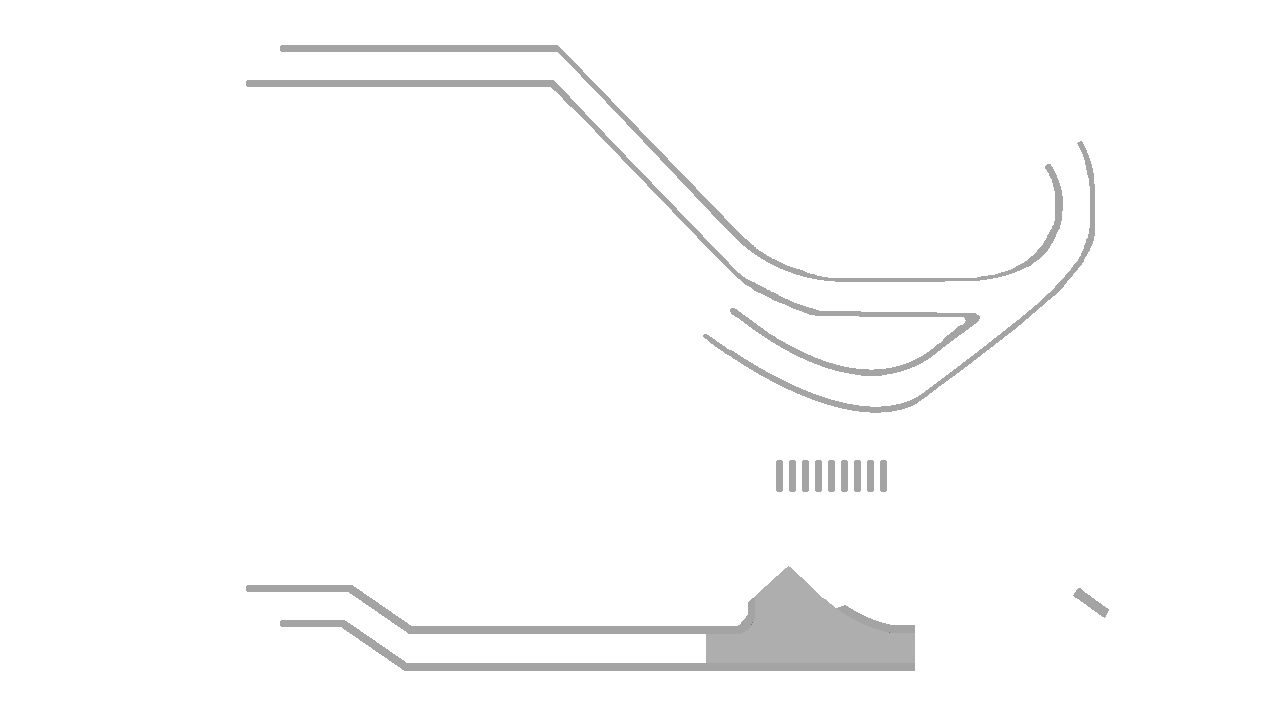
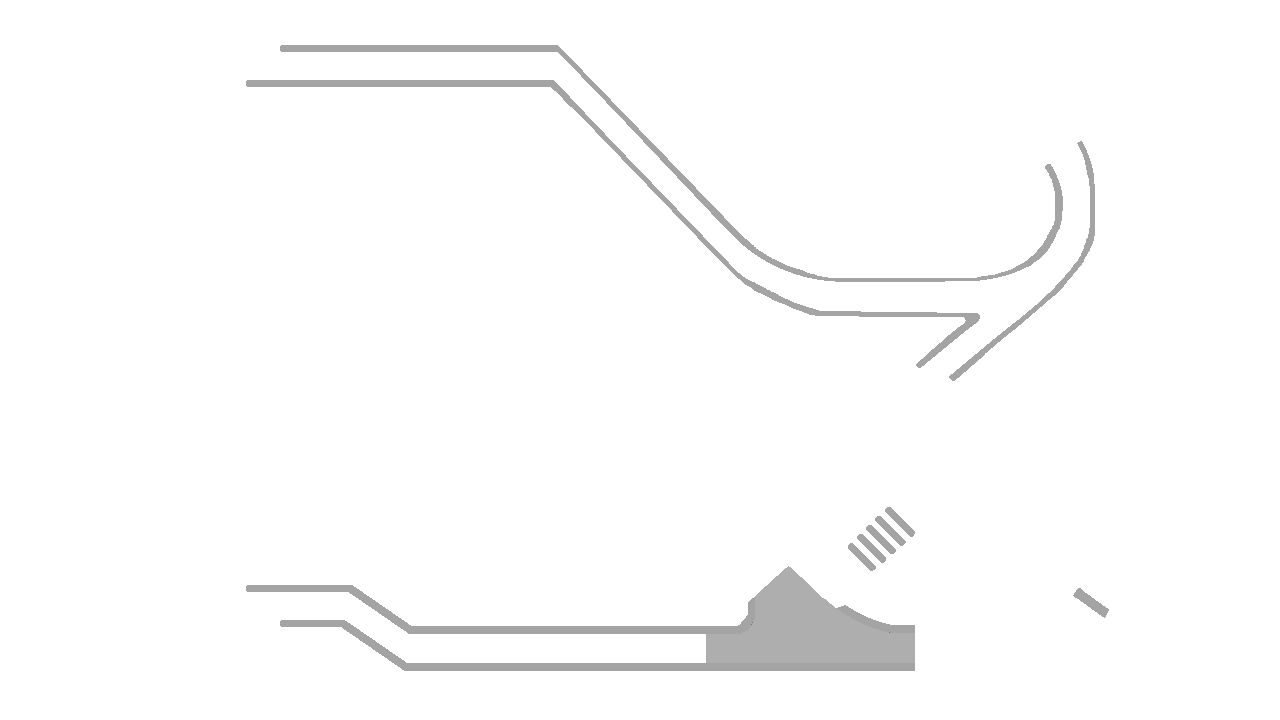
fix lock start pos, update top walls and rails massively, fix double press on trigger

diff --git a/games/pinball/source/layer.h b/games/pinball/source/layer.h
@@ -32,8 +32,9 @@ class Layer {
         vector<float> m_launchExitLock = {1068.0, 585.4, 1066.8, 586.9, 1067.2, 589.2, 1067.5, 591.5, 1087.9, 606.2, 1108.4, 621.0, 1110.6, 621.0, 1112.8, 621.0, 1114.0, 619.6, 1115.2, 618.1, 1114.8, 615.8, 1114.5, 613.5, 1094.1, 598.8, 1073.6, 584.0, 1071.4, 584.0, 1069.2, 584.0, 1068.0, 585.4};
         vector<float> m_upperWall = {786.0, 60.6, 777.5, 62.1, 765.8, 66.0, 754.2, 69.9, 744.5, 74.6, 734.9, 79.2, 723.2, 87.1, 711.5, 95.0, 708.1, 98.0, 704.6, 101.0, 707.4, 103.9, 710.3, 106.9, 714.7, 103.1, 719.0, 99.2, 727.8, 93.4, 736.5, 87.6, 746.8, 82.4, 757.1, 77.2, 767.8, 73.7, 778.5, 70.1, 788.0, 68.5, 797.5, 66.9, 881.5, 67.3, 965.5, 67.6, 977.6, 70.3, 989.7, 73.0, 998.6, 76.1, 1007.5, 79.2, 1015.7, 83.1, 1023.8, 87.0, 1032.7, 92.9, 1041.6, 98.9, 1048.7, 105.4, 1055.7, 111.9, 1061.3, 118.8, 1067.0, 125.7, 1068.8, 129.0, 1070.5, 130.9, 1072.4, 134.5, 1074.4, 138.1, 1073.4, 138.8, 1072.4, 139.5, 1064.4, 145.6, 1056.5, 151.7, 1050.7, 155.5, 1045.0, 159.3, 1039.7, 152.0, 1035.1, 145.5, 1031.3, 141.5, 1027.4, 137.5, 1021.3, 132.0, 1015.2, 126.5, 1007.3, 121.8, 999.4, 117.1, 991.6, 114.0, 983.9, 110.9, 976.4, 109.0, 968.9, 107.1, 958.9, 106.0, 948.8, 105.0, 920.1, 105.0, 891.4, 105.0, 883.2, 106.0, 875.0, 107.1, 866.3, 109.6, 857.5, 112.1, 849.2, 116.0, 840.8, 120.0, 833.7, 124.7, 826.6, 129.5, 817.8, 137.9, 809.0, 146.3, 804.0, 152.5, 799.1, 158.7, 794.5, 166.0, 790.0, 173.4, 790.0, 175.2, 790.0, 177.0, 792.6, 178.2, 795.3, 179.4, 796.6, 177.5, 798.0, 175.5, 803.9, 166.5, 809.8, 157.5, 817.5, 149.3, 825.1, 141.1, 833.1, 135.1, 841.1, 129.1, 851.3, 124.0, 861.5, 119.0, 871.5, 116.3, 881.5, 113.7, 914.0, 113.2, 946.5, 112.8, 957.1, 113.9, 967.8, 115.0, 975.6, 117.1, 983.5, 119.1, 991.1, 122.4, 998.7, 125.7, 1005.7, 130.3, 1012.7, 134.8, 1019.8, 141.4, 1026.8, 148.0, 1030.8, 153.3, 1034.9, 158.5, 1038.2, 164.1, 1041.6, 169.8, 1044.8, 168.5, 1047.9, 167.1, 1054.2, 162.9, 1060.5, 158.7, 1072.3, 149.7, 1084.0, 140.7, 1084.0, 139.5, 1084.0, 138.3, 1079.1, 130.2, 1074.3, 122.1, 1069.2, 115.8, 1064.2, 109.5, 1055.4, 101.0, 1046.5, 92.4, 1037.5, 86.4, 1028.5, 80.4, 1020.0, 76.3, 1011.5, 72.2, 1001.1, 68.6, 990.6, 64.9, 978.6, 62.3, 966.5, 59.6, 880.5, 59.4, 794.5, 59.1, 786.0, 60.6};
         vector<float> m_upperWall2 = {971.5, 482.0, 957.5, 495.1, 917.1, 530.8, 876.6, 566.5, 873.2, 569.2, 869.7, 572.0, 867.4, 572.0, 865.2, 572.0, 862.4, 569.7, 859.7, 567.5, 857.1, 564.5, 854.5, 561.6, 850.3, 557.6, 846.0, 553.6, 846.0, 551.5, 846.0, 549.3, 876.5, 520.6, 907.0, 491.8, 907.0, 489.6, 907.0, 487.4, 905.8, 486.2, 904.6, 485.0, 816.1, 485.0, 727.5, 485.0, 721.8, 489.6, 716.0, 494.2, 716.0, 495.5, 716.0, 496.8, 746.8, 525.7, 777.5, 554.7, 784.5, 560.9, 791.4, 567.0, 792.5, 567.0, 793.6, 567.0, 802.3, 575.4, 811.0, 583.9, 811.0, 588.8, 811.0, 593.8, 807.8, 596.5, 804.5, 599.1, 798.7, 603.4, 793.0, 607.7, 781.8, 611.0, 770.7, 614.3, 764.6, 613.7, 758.5, 613.1, 756.7, 612.5, 755.0, 611.8, 755.0, 608.7, 755.0, 605.7, 752.9, 599.9, 750.8, 594.2, 744.2, 588.3, 737.5, 582.5, 718.4, 563.7, 699.2, 545.0, 696.8, 545.0, 694.5, 545.0, 690.7, 548.1, 687.0, 551.1, 687.0, 554.4, 687.0, 557.6, 694.4, 589.5, 701.9, 621.5, 704.2, 623.3, 706.5, 625.2, 744.0, 624.7, 781.5, 624.2, 793.0, 622.1, 804.5, 620.0, 816.0, 616.4, 827.5, 612.9, 841.5, 606.1, 855.5, 599.2, 863.5, 593.3, 871.5, 587.3, 917.0, 545.5, 962.5, 503.7, 972.0, 494.5, 981.5, 485.3, 986.8, 480.5, 992.0, 475.7, 992.0, 473.6, 992.0, 471.4, 990.8, 470.2, 989.6, 469.0, 987.6, 469.0, 985.5, 469.0, 971.5, 482.0};
-        vector<float> m_upperWall3 = {963.8, 419.4, 950.5, 429.8, 939.0, 438.9, 927.5, 448.0, 829.9, 448.0, 732.4, 448.0, 731.2, 449.2, 730.0, 450.4, 730.0, 453.0, 730.0, 455.6, 731.2, 456.8, 732.4, 458.0, 831.4, 458.0, 930.5, 458.0, 951.0, 440.8, 971.5, 423.7, 976.8, 419.7, 982.0, 415.8, 982.0, 413.6, 982.0, 411.4, 980.8, 410.2, 979.6, 409.0, 978.4, 409.0, 977.2, 409.0, 963.8, 419.4};
-        vector<float> m_upperWall4 = {941.0, 382.1, 911.5, 405.3, 905.5, 409.1, 899.5, 413.0, 815.9, 413.0, 732.4, 413.0, 731.2, 414.2, 730.0, 415.4, 730.0, 417.5, 730.0, 419.6, 731.2, 420.8, 732.4, 422.0, 817.9, 422.0, 903.5, 421.9, 938.0, 394.9, 972.5, 367.9, 975.0, 365.4, 977.5, 362.9, 975.1, 360.9, 972.8, 359.0, 971.6, 359.0, 970.5, 359.0, 941.0, 382.1};
+        vector<float> m_upperWall3 = {963.8, 419.4, 950.5, 429.8, 939.0, 438.9, 927.5, 448.0, 862.0, 448.2, 796.5, 448.5, 796.5, 453.0, 796.5, 457.5, 863.5, 457.7, 930.5, 458.0, 951.0, 440.8, 971.5, 423.7, 976.8, 419.7, 982.0, 415.8, 982.0, 413.6, 982.0, 411.4, 980.8, 410.2, 979.6, 409.0, 978.4, 409.0, 977.2, 409.0, 963.8, 419.4};
+        vector<float> m_upperWall4 = {928.9, 391.6, 911.5, 405.3, 906.0, 408.9, 900.5, 412.5, 848.5, 413.0, 796.5, 413.5, 796.5, 417.5, 796.5, 421.5, 849.8, 421.8, 903.2, 422.0, 927.2, 403.3, 951.3, 384.5, 951.8, 383.1, 952.3, 381.7, 951.3, 380.1, 950.3, 378.5, 948.3, 378.2, 946.3, 377.9, 928.9, 391.6};
+        vector<float> m_upperWall5 = {852.4, 333.7, 850.7, 336.5, 844.1, 343.4, 837.5, 350.2, 829.5, 356.5, 821.5, 362.7, 813.5, 368.0, 805.6, 373.4, 801.0, 375.1, 796.5, 376.8, 796.5, 380.1, 796.5, 383.5, 845.5, 383.8, 894.5, 384.1, 897.5, 383.5, 900.6, 383.0, 908.5, 376.4, 916.5, 369.8, 916.5, 368.1, 916.5, 366.5, 904.0, 366.0, 891.5, 365.5, 887.0, 363.2, 882.5, 360.8, 879.6, 358.2, 876.8, 355.5, 868.7, 345.5, 860.7, 335.5, 859.2, 333.2, 857.8, 331.0, 856.0, 331.0, 854.2, 331.0, 852.4, 333.7};
         vector<float> m_leftSlide = {120.5, 46.1, 118.4, 47.1, 117.1, 49.2, 115.8, 51.3, 113.3, 57.9, 110.9, 64.5, 107.9, 72.5, 104.9, 80.5, 103.6, 84.0, 102.3, 87.5, 97.1, 101.5, 91.9, 115.5, 89.9, 121.0, 87.8, 126.5, 86.5, 130.0, 85.1, 133.5, 82.6, 140.0, 80.2, 146.5, 76.4, 156.5, 72.7, 166.5, 70.3, 173.0, 67.9, 179.5, 66.6, 183.0, 65.3, 186.5, 62.6, 193.8, 59.8, 201.2, 64.2, 200.8, 67.9, 199.7, 72.4, 201.0, 76.9, 202.2, 80.3, 205.7, 83.8, 209.1, 87.6, 208.8, 91.3, 208.5, 94.6, 200.5, 97.9, 192.5, 101.5, 183.0, 105.0, 173.5, 107.5, 167.0, 110.0, 160.5, 113.5, 151.0, 117.0, 141.5, 119.5, 135.0, 122.0, 128.5, 125.5, 119.3, 129.0, 110.0, 131.1, 103.3, 133.2, 96.5, 137.2, 84.5, 141.3, 72.5, 144.0, 66.4, 146.7, 60.3, 149.1, 58.1, 151.5, 55.8, 155.0, 54.1, 158.5, 52.5, 218.4, 52.0, 278.3, 51.5, 279.3, 49.8, 280.4, 48.2, 279.1, 46.6, 277.8, 45.0, 200.1, 45.1, 122.5, 45.1, 120.5, 46.1};
         vector<float> m_rightSlide = {80.2, 466.4, 77.0, 469.8, 72.4, 471.0, 67.9, 472.3, 64.2, 471.2, 60.6, 470.1, 62.4, 477.7, 64.9, 484.5, 67.5, 491.5, 70.1, 498.5, 71.4, 502.0, 72.7, 505.5, 76.4, 515.5, 80.1, 525.5, 81.5, 529.0, 82.9, 532.5, 85.5, 539.5, 88.2, 546.5, 90.0, 551.5, 91.9, 556.5, 97.1, 570.5, 102.3, 584.5, 103.6, 588.0, 104.9, 591.5, 107.9, 599.5, 110.9, 607.5, 113.3, 614.1, 115.8, 620.7, 117.1, 622.8, 118.4, 624.9, 120.7, 625.9, 123.1, 627.0, 200.4, 627.0, 277.8, 627.0, 279.1, 625.4, 280.4, 623.8, 279.3, 622.2, 278.3, 620.5, 218.4, 620.0, 158.5, 619.5, 155.0, 617.9, 151.5, 616.2, 149.1, 613.9, 146.7, 611.7, 144.0, 605.6, 141.3, 599.5, 137.2, 587.5, 133.2, 575.5, 131.1, 568.7, 129.0, 562.0, 125.5, 552.7, 122.0, 543.5, 119.5, 537.0, 117.0, 530.5, 113.5, 521.0, 110.0, 511.5, 107.5, 505.0, 105.0, 498.5, 101.5, 489.0, 97.9, 479.5, 94.6, 471.5, 91.3, 463.5, 87.4, 463.2, 83.5, 463.0, 80.2, 466.4};
         vector<float> m_leftSlideLine = {163.9, 81.6, 162.6, 83.2, 163.7, 84.8, 164.7, 86.5, 204.5, 86.5, 244.3, 86.5, 245.3, 84.8, 246.4, 83.2, 245.1, 81.6, 243.8, 80.0, 204.5, 80.0, 165.2, 80.0, 163.9, 81.6};
@@ -41,12 +42,12 @@ class Layer {
         vector<float> m_leftBumper = {156.9, 116.0, 155.3, 117.0, 154.0, 120.2, 152.8, 123.5, 151.0, 127.5, 149.2, 131.5, 146.5, 138.0, 143.7, 144.5, 142.0, 148.5, 140.2, 152.5, 137.6, 159.0, 134.9, 165.5, 133.3, 168.4, 131.8, 171.2, 131.6, 176.6, 131.5, 181.9, 132.8, 183.2, 134.1, 184.5, 138.3, 184.5, 142.5, 184.5, 150.0, 180.0, 157.5, 175.5, 160.0, 174.1, 162.5, 172.7, 166.0, 170.8, 169.5, 168.9, 172.5, 167.1, 175.5, 165.3, 180.0, 162.6, 184.5, 159.9, 187.3, 158.9, 190.0, 157.8, 192.8, 155.1, 195.5, 154.1, 200.5, 151.0, 205.5, 147.9, 208.3, 146.9, 211.0, 145.8, 213.3, 143.5, 215.5, 142.8, 218.5, 140.5, 221.5, 138.3, 223.7, 137.6, 225.8, 136.9, 227.0, 135.5, 228.2, 134.0, 229.7, 134.0, 231.1, 134.0, 233.2, 132.0, 235.4, 130.0, 236.9, 130.0, 238.4, 130.0, 241.2, 127.3, 244.0, 124.6, 244.0, 122.0, 244.0, 119.3, 241.7, 117.2, 239.4, 115.0, 198.9, 115.0, 158.5, 115.1, 156.9, 116.0};
         vector<float> m_rightBumper = {134.4, 487.9, 132.3, 488.8, 131.6, 491.5, 130.9, 494.1, 131.6, 497.8, 132.3, 501.5, 133.6, 504.0, 134.9, 506.5, 137.6, 513.0, 140.2, 519.5, 142.0, 523.5, 143.7, 527.5, 146.5, 534.0, 149.2, 540.5, 151.0, 544.5, 152.8, 548.5, 154.0, 551.8, 155.3, 555.1, 157.1, 556.0, 158.9, 557.0, 199.3, 557.0, 239.7, 557.0, 241.8, 554.7, 244.0, 552.4, 244.0, 550.0, 244.0, 547.6, 241.3, 544.8, 238.6, 542.0, 237.0, 542.0, 235.4, 542.0, 233.2, 540.0, 231.1, 538.0, 229.7, 538.0, 228.2, 538.0, 227.0, 536.5, 225.8, 535.1, 223.7, 534.4, 221.5, 533.7, 218.5, 531.5, 215.5, 529.2, 213.3, 528.5, 211.0, 527.9, 208.3, 525.1, 205.5, 524.1, 200.5, 521.0, 195.5, 517.9, 192.8, 516.9, 190.0, 515.8, 187.3, 513.1, 184.5, 512.1, 180.0, 509.4, 175.5, 506.7, 172.5, 504.9, 169.5, 503.1, 166.0, 501.2, 162.5, 499.3, 160.0, 497.9, 157.5, 496.5, 150.4, 492.2, 143.2, 487.9, 139.9, 487.5, 136.5, 487.0, 134.4, 487.9};
         vector<vector<float>> m_layer1ShapeData = {
-            m_tubeRight, m_tubeLeft, m_launchExitLock, m_upperWall, m_upperWall2, m_upperWall3, m_upperWall4, m_leftSlide, m_rightSlide, m_rightSlideLine, m_leftSlideLine, m_leftBumper, m_rightBumper
+            m_tubeRight, m_tubeLeft, m_launchExitLock, m_upperWall, m_upperWall2, m_upperWall3, m_upperWall4, m_upperWall5, m_leftSlide, m_rightSlide, m_rightSlideLine, m_leftSlideLine, m_leftBumper, m_rightBumper
         };
 
         // Layer 2 shapes.
         vector<float> m_leftInnerRail = {271.1, 46.8, 270.2, 48.6, 271.1, 50.3, 272.1, 52.0, 416.9, 52.0, 561.7, 52.0, 644.7, 141.2, 727.7, 230.5, 737.3, 239.7, 746.9, 248.8, 756.7, 255.4, 766.6, 261.9, 776.0, 266.4, 785.5, 270.8, 793.4, 273.5, 801.3, 276.1, 809.9, 278.0, 818.5, 279.9, 830.5, 281.1, 842.5, 282.3, 908.5, 281.7, 974.5, 281.1, 983.5, 280.0, 992.5, 278.8, 1001.6, 276.5, 1010.6, 274.2, 1018.3, 271.0, 1025.9, 267.8, 1032.2, 263.8, 1038.5, 259.7, 1044.1, 253.9, 1049.8, 248.0, 1054.8, 237.8, 1059.9, 227.5, 1061.1, 223.0, 1062.3, 218.5, 1062.4, 205.0, 1062.5, 191.5, 1059.4, 182.8, 1056.3, 174.1, 1050.5, 163.8, 1044.7, 153.5, 1040.4, 147.4, 1036.2, 141.4, 1030.2, 135.9, 1024.3, 130.4, 1018.6, 126.6, 1012.9, 122.9, 1005.2, 119.0, 997.4, 115.1, 988.2, 112.1, 979.1, 109.1, 968.5, 107.0, 957.9, 105.0, 931.4, 105.0, 905.0, 105.0, 905.0, 108.9, 905.0, 112.9, 934.3, 113.2, 963.5, 113.6, 969.5, 115.3, 975.5, 117.0, 984.9, 120.7, 994.3, 124.3, 996.1, 126.1, 998.0, 128.0, 999.3, 128.0, 1000.7, 128.0, 1008.1, 133.1, 1015.5, 138.3, 1025.0, 147.9, 1034.5, 157.6, 1042.2, 169.0, 1049.9, 180.5, 1051.6, 185.0, 1053.2, 189.5, 1053.7, 201.5, 1054.2, 213.5, 1051.0, 221.0, 1047.8, 228.5, 1046.3, 232.5, 1044.8, 236.5, 1040.3, 243.7, 1035.8, 250.9, 1029.5, 255.5, 1023.1, 260.0, 1017.6, 263.0, 1013.6, 266.0, 1012.2, 266.0, 1010.8, 266.0, 1007.7, 267.4, 1004.5, 268.8, 1000.5, 269.4, 996.5, 270.0, 986.1, 271.0, 975.6, 272.0, 974.1, 272.4, 972.5, 272.9, 900.5, 273.1, 828.5, 273.3, 818.5, 271.6, 808.5, 269.8, 796.9, 266.0, 785.3, 262.2, 777.3, 258.2, 769.4, 254.2, 760.2, 248.0, 751.0, 241.9, 742.3, 233.7, 733.7, 225.5, 726.1, 216.0, 718.6, 206.5, 706.6, 192.0, 694.6, 177.5, 678.3, 158.3, 662.0, 139.1, 662.0, 137.8, 662.0, 136.4, 650.8, 125.3, 639.5, 114.2, 617.1, 92.8, 594.8, 71.5, 584.6, 61.5, 574.5, 51.5, 572.0, 48.2, 569.6, 45.0, 420.8, 45.0, 272.1, 45.0, 271.1, 46.8};
-        vector<float> m_leftOuterRail = {831.0, 61.9, 831.0, 66.0, 847.3, 66.1, 863.5, 66.2, 914.5, 66.9, 965.5, 67.7, 976.3, 69.9, 987.1, 72.1, 996.2, 75.1, 1005.3, 78.0, 1013.8, 82.0, 1022.4, 86.1, 1032.4, 92.7, 1042.5, 99.4, 1053.0, 109.9, 1063.6, 120.5, 1069.2, 129.0, 1074.8, 137.5, 1079.4, 147.6, 1084.0, 157.7, 1086.1, 167.6, 1088.2, 177.5, 1089.0, 182.5, 1089.9, 187.5, 1089.9, 206.6, 1090.0, 225.6, 1088.9, 231.6, 1087.8, 237.5, 1087.1, 238.5, 1086.4, 239.5, 1085.0, 244.0, 1083.7, 248.5, 1080.9, 254.1, 1078.2, 259.7, 1070.2, 269.6, 1062.2, 279.5, 1053.7, 288.1, 1045.2, 296.8, 1024.7, 313.9, 1004.1, 331.0, 985.8, 345.3, 967.5, 359.5, 960.3, 365.0, 953.0, 370.4, 953.7, 382.3, 954.3, 394.1, 937.9, 393.5, 921.5, 393.0, 903.9, 392.4, 886.3, 391.8, 885.7, 364.1, 885.0, 336.5, 885.0, 326.7, 885.0, 317.0, 924.9, 317.0, 964.8, 317.0, 966.0, 318.5, 967.2, 320.0, 966.7, 321.3, 966.2, 322.7, 952.3, 332.8, 938.5, 342.8, 934.6, 346.2, 930.6, 349.6, 931.3, 351.3, 932.0, 353.0, 933.5, 353.6, 935.0, 354.2, 939.8, 350.5, 944.5, 346.7, 961.7, 333.9, 978.9, 321.1, 979.6, 318.4, 980.3, 315.8, 978.9, 314.5, 977.5, 313.1, 899.0, 312.0, 820.5, 310.9, 806.5, 306.5, 792.5, 302.1, 776.5, 293.9, 760.5, 285.8, 753.5, 282.2, 746.5, 278.7, 739.9, 273.9, 733.4, 269.0, 709.4, 243.8, 685.5, 218.6, 624.7, 154.5, 563.8, 90.5, 558.5, 85.2, 553.2, 80.0, 397.1, 80.0, 241.1, 80.0, 240.1, 81.8, 239.2, 83.6, 240.1, 85.3, 241.1, 87.0, 395.4, 87.0, 549.6, 87.0, 622.0, 162.5, 694.3, 238.0, 702.3, 245.2, 709.5, 253.2, 710.5, 254.9, 711.5, 256.6, 713.5, 259.2, 715.6, 261.7, 717.8, 262.4, 720.0, 263.1, 722.7, 266.8, 725.4, 270.5, 729.9, 275.0, 734.5, 279.6, 744.5, 285.1, 754.5, 290.6, 765.0, 295.7, 775.5, 300.9, 783.0, 304.0, 790.5, 307.2, 800.5, 311.2, 810.5, 315.2, 839.0, 316.0, 867.5, 316.8, 871.6, 316.9, 875.7, 317.0, 876.5, 358.0, 877.2, 398.9, 878.4, 399.9, 879.6, 400.9, 919.8, 402.0, 960.1, 403.2, 961.5, 402.0, 963.0, 400.8, 963.0, 388.0, 963.0, 375.3, 1005.0, 340.5, 1047.0, 305.8, 1047.0, 304.5, 1047.0, 303.2, 1054.8, 296.3, 1062.7, 289.5, 1065.1, 287.4, 1067.5, 285.2, 1072.4, 280.0, 1077.2, 274.7, 1082.9, 265.8, 1088.5, 256.9, 1090.7, 252.7, 1092.9, 248.5, 1095.6, 240.1, 1098.3, 231.8, 1097.7, 201.1, 1097.0, 170.5, 1095.5, 164.7, 1093.9, 159.0, 1086.4, 143.7, 1079.0, 128.5, 1072.6, 120.0, 1066.2, 111.5, 1056.4, 102.0, 1046.5, 92.4, 1037.1, 86.2, 1027.7, 79.9, 1018.6, 75.5, 1009.5, 71.2, 1000.6, 68.1, 991.7, 65.0, 979.6, 62.5, 967.5, 60.1, 956.5, 59.6, 945.5, 59.0, 888.3, 58.4, 831.0, 57.9, 831.0, 61.9};
+        vector<float> m_leftOuterRail = {831.0, 61.9, 831.0, 66.0, 847.3, 66.1, 863.5, 66.2, 914.5, 66.9, 965.5, 67.7, 976.3, 69.9, 987.1, 72.1, 996.2, 75.1, 1005.3, 78.0, 1013.8, 82.0, 1022.4, 86.1, 1032.4, 92.7, 1042.5, 99.4, 1053.0, 109.9, 1063.6, 120.5, 1069.2, 129.0, 1074.8, 137.5, 1079.4, 147.6, 1084.0, 157.7, 1086.1, 167.6, 1088.2, 177.5, 1089.0, 182.5, 1089.9, 187.5, 1089.9, 206.6, 1090.0, 225.6, 1088.9, 231.6, 1087.8, 237.5, 1087.1, 238.5, 1086.4, 239.5, 1085.0, 244.0, 1083.7, 248.5, 1080.9, 254.1, 1078.2, 259.7, 1070.2, 269.6, 1062.2, 279.5, 1053.7, 288.1, 1045.2, 296.8, 1024.7, 313.9, 1004.1, 331.0, 985.8, 345.3, 967.5, 359.5, 948.3, 373.9, 929.0, 388.2, 929.0, 390.8, 929.0, 393.3, 907.8, 392.6, 886.6, 391.9, 885.5, 354.2, 884.7, 317.0, 924.8, 317.0, 964.8, 317.0, 966.0, 318.5, 967.2, 320.0, 966.7, 321.3, 966.2, 322.7, 952.0, 333.1, 937.8, 343.5, 933.6, 346.5, 929.4, 349.5, 920.6, 356.3, 911.9, 363.2, 912.2, 365.8, 912.5, 368.5, 914.2, 368.8, 915.9, 369.1, 923.8, 363.6, 931.7, 358.0, 938.1, 352.3, 944.5, 346.6, 961.7, 333.8, 978.9, 321.1, 979.6, 318.4, 980.3, 315.8, 978.9, 314.5, 977.5, 313.1, 899.0, 312.0, 820.5, 310.9, 806.5, 306.5, 792.5, 302.1, 776.5, 293.9, 760.5, 285.8, 753.5, 282.2, 746.5, 278.7, 739.9, 273.9, 733.4, 269.0, 709.4, 243.8, 685.5, 218.6, 624.7, 154.5, 563.8, 90.5, 558.5, 85.2, 553.2, 80.0, 397.1, 80.0, 241.1, 80.0, 240.1, 81.8, 239.2, 83.6, 240.1, 85.3, 241.1, 87.0, 395.4, 87.0, 549.6, 87.0, 622.0, 162.5, 694.3, 238.0, 702.3, 245.2, 709.5, 253.2, 710.5, 254.9, 711.5, 256.6, 713.5, 259.2, 715.6, 261.7, 717.8, 262.4, 720.0, 263.1, 722.7, 266.8, 725.4, 270.5, 729.9, 275.0, 734.5, 279.6, 744.5, 285.1, 754.5, 290.6, 765.0, 295.7, 775.5, 300.9, 783.0, 304.0, 790.5, 307.2, 800.5, 311.2, 810.5, 315.2, 839.0, 316.0, 867.5, 316.8, 871.6, 316.9, 875.7, 317.0, 876.5, 358.0, 877.2, 398.9, 878.4, 399.9, 879.6, 400.9, 919.8, 402.0, 960.1, 403.2, 961.5, 402.0, 963.0, 400.8, 963.0, 388.0, 963.0, 375.3, 1005.0, 340.5, 1047.0, 305.8, 1047.0, 304.5, 1047.0, 303.2, 1054.8, 296.3, 1062.7, 289.5, 1065.1, 287.4, 1067.5, 285.2, 1072.4, 280.0, 1077.2, 274.7, 1082.9, 265.8, 1088.5, 256.9, 1090.7, 252.7, 1092.9, 248.5, 1095.6, 240.1, 1098.3, 231.8, 1097.7, 201.1, 1097.0, 170.5, 1095.5, 164.7, 1093.9, 159.0, 1086.4, 143.7, 1079.0, 128.5, 1072.6, 120.0, 1066.2, 111.5, 1056.4, 102.0, 1046.5, 92.4, 1037.1, 86.2, 1027.7, 79.9, 1018.6, 75.5, 1009.5, 71.2, 1000.6, 68.1, 991.7, 65.0, 979.6, 62.5, 967.5, 60.1, 956.5, 59.6, 945.5, 59.0, 888.3, 58.4, 831.0, 57.9, 831.0, 61.9};
         vector<float> m_rightOuterRail = {1063.5, 595.1, 1057.7, 603.1, 1047.0, 613.4, 1036.3, 623.7, 1024.9, 631.3, 1013.5, 638.9, 1002.9, 643.9, 992.4, 649.0, 980.4, 652.9, 968.5, 656.8, 957.5, 658.9, 946.5, 661.0, 937.5, 662.0, 928.5, 663.0, 667.8, 663.0, 407.2, 663.0, 375.9, 641.5, 344.7, 620.0, 290.6, 620.2, 236.5, 620.5, 236.5, 623.5, 236.5, 626.5, 288.7, 626.8, 340.9, 627.0, 372.7, 649.0, 404.5, 671.0, 667.0, 671.0, 929.5, 671.0, 938.5, 670.0, 947.5, 669.0, 958.5, 666.9, 969.5, 664.8, 983.0, 660.4, 996.5, 656.0, 1007.5, 650.6, 1018.5, 645.2, 1027.5, 639.3, 1036.5, 633.3, 1043.0, 628.0, 1049.5, 622.6, 1056.9, 615.1, 1064.2, 607.5, 1070.1, 599.7, 1076.0, 591.9, 1072.7, 588.8, 1069.4, 587.2, 1063.5, 595.1};
         vector<float> m_rightInnerRail = {660.8, 433.7, 655.4, 437.5, 627.7, 457.4, 600.0, 477.3, 599.5, 479.1, 598.9, 480.9, 600.0, 482.9, 601.0, 484.9, 633.1, 529.2, 665.2, 573.5, 666.8, 574.7, 668.4, 576.0, 669.7, 576.0, 671.0, 576.0, 681.8, 568.6, 692.7, 561.2, 695.5, 559.7, 698.4, 558.2, 720.7, 579.9, 742.9, 601.5, 745.5, 602.4, 748.0, 603.4, 748.0, 608.4, 748.0, 613.5, 744.9, 618.8, 741.9, 624.1, 739.4, 625.0, 736.9, 626.0, 574.2, 626.0, 411.5, 626.0, 381.8, 605.5, 352.1, 585.0, 296.3, 585.2, 240.5, 585.5, 240.5, 588.5, 240.5, 591.5, 294.4, 591.8, 348.2, 592.0, 378.7, 613.0, 409.2, 634.0, 574.6, 634.0, 739.9, 634.0, 743.7, 631.9, 747.5, 629.8, 748.8, 628.7, 750.2, 627.6, 752.6, 622.8, 755.0, 618.1, 755.0, 611.9, 755.0, 605.7, 752.8, 599.8, 750.7, 593.9, 730.1, 574.1, 709.5, 554.3, 704.2, 549.6, 698.9, 545.0, 696.7, 545.0, 694.5, 545.0, 682.5, 554.9, 670.5, 564.8, 669.9, 564.1, 669.2, 563.5, 640.1, 523.2, 611.0, 483.0, 610.7, 482.1, 610.5, 481.2, 638.5, 461.0, 666.5, 440.8, 667.6, 440.4, 668.6, 439.9, 713.5, 462.0, 758.4, 484.1, 752.5, 498.0, 745.9, 511.1, 738.9, 504.8, 731.8, 498.5, 726.8, 494.2, 721.8, 490.0, 720.0, 490.0, 718.1, 490.0, 716.6, 491.6, 715.0, 493.1, 715.0, 494.9, 715.0, 496.7, 740.8, 519.5, 766.5, 542.4, 795.1, 570.4, 823.7, 598.5, 829.6, 603.1, 835.5, 607.7, 841.6, 611.8, 847.6, 615.9, 856.1, 620.4, 864.5, 624.9, 875.5, 628.7, 886.5, 632.5, 909.9, 632.8, 933.4, 633.1, 939.9, 632.0, 946.5, 630.9, 956.6, 627.5, 966.8, 624.1, 976.1, 619.4, 985.5, 614.7, 995.9, 607.7, 1006.3, 600.6, 1017.8, 589.6, 1029.3, 578.5, 1034.2, 572.6, 1039.1, 566.8, 1035.8, 564.5, 1032.5, 562.2, 1029.6, 565.9, 1026.7, 569.5, 1015.6, 580.6, 1004.5, 591.6, 997.0, 597.2, 989.4, 602.8, 983.0, 606.9, 976.5, 611.0, 972.5, 612.9, 968.5, 614.9, 958.5, 618.6, 948.5, 622.3, 942.3, 624.6, 936.1, 626.9, 935.5, 626.0, 934.9, 625.0, 913.1, 625.0, 891.2, 625.0, 882.4, 622.4, 873.5, 619.9, 864.1, 615.4, 854.7, 611.0, 846.4, 605.5, 838.2, 600.0, 827.3, 589.3, 816.4, 578.5, 813.0, 574.5, 809.5, 570.5, 803.8, 566.5, 798.2, 562.6, 797.7, 560.0, 797.1, 557.5, 775.1, 537.6, 753.0, 517.7, 761.5, 499.9, 770.1, 482.8, 769.5, 481.1, 769.0, 479.3, 718.7, 454.6, 668.5, 429.9, 667.4, 430.0, 666.3, 430.0, 660.8, 433.7};
         vector<vector<float>> m_layer2ShapeData = {

diff --git a/games/pinball/source/ramp.h b/games/pinball/source/ramp.h
@@ -39,7 +39,7 @@ class Ramp {
         vector<float> m_ramp3 = {734.0, 543.6, 714.0, 562.2, 714.0, 565.6, 714.0, 569.0, 724.8, 579.5, 735.5, 590.0, 738.8, 590.0, 742.1, 590.0, 745.0, 588.5, 748.0, 586.9, 748.0, 584.6, 748.0, 582.2, 749.6, 580.9, 751.2, 579.6, 753.0, 578.5, 754.9, 577.5, 764.5, 569.5, 774.2, 561.5, 777.5, 559.0, 780.8, 556.5, 782.5, 553.1, 784.1, 549.7, 779.3, 544.6, 774.5, 539.5, 767.5, 532.2, 760.6, 525.0, 757.3, 525.0, 754.0, 525.0, 734.0, 543.6};
         vector<float> m_ramp3Down = {708.5, 497.6, 702.5, 503.2, 695.5, 508.7, 688.5, 514.3, 684.8, 517.9, 681.0, 521.4, 681.0, 524.3, 681.0, 527.1, 694.6, 541.8, 708.3, 556.5, 711.5, 556.5, 714.8, 556.5, 731.9, 540.2, 749.0, 523.8, 749.0, 520.5, 749.0, 517.2, 735.6, 504.6, 722.2, 492.0, 718.4, 492.0, 714.5, 492.1, 708.5, 497.6};
         vector<float> m_ramp3up2 = {765.7, 575.1, 741.0, 593.2, 741.0, 595.0, 741.0, 596.9, 743.0, 600.5, 745.0, 604.1, 745.0, 605.2, 745.0, 606.3, 747.5, 609.6, 750.0, 612.9, 751.8, 616.3, 753.5, 617.8, 765.0, 618.5, 776.5, 619.2, 791.0, 616.5, 805.5, 613.9, 811.5, 610.6, 817.5, 607.4, 820.0, 605.9, 822.5, 604.5, 824.8, 602.6, 827.0, 600.7, 827.0, 597.7, 827.0, 594.7, 816.2, 583.1, 805.3, 571.5, 804.0, 569.0, 802.7, 566.5, 798.7, 561.7, 794.7, 557.0, 792.6, 557.0, 790.5, 557.0, 765.7, 575.1};
-        vector<float> m_ramp1DownMid = {937.8, 344.6, 929.0, 352.2, 929.0, 353.4, 929.0, 354.5, 939.1, 366.8, 949.1, 379.0, 950.3, 379.0, 951.5, 379.0, 962.8, 370.0, 974.0, 360.9, 974.0, 359.6, 974.0, 358.3, 965.3, 350.5, 956.5, 342.6, 954.0, 340.4, 951.5, 338.1, 949.0, 337.5, 946.5, 336.9, 937.8, 344.6};
+        vector<float> m_ramp1DownMid = {923.8, 357.6, 915.0, 365.2, 915.0, 366.4, 915.0, 367.5, 925.1, 379.8, 935.1, 392.0, 936.3, 392.0, 937.5, 392.0, 948.8, 383.0, 960.0, 373.9, 960.0, 372.6, 960.0, 371.3, 951.3, 363.5, 942.5, 355.6, 940.0, 353.4, 937.5, 351.1, 935.0, 350.5, 932.5, 349.9, 923.8, 357.6};
         // Access this vector by index of rampID to get the collision shape for that ramp
         vector<vector<float>> m_rampShapes = {
             m_launchTubeExitSensor, m_ramp1, m_ramp1up2, m_ramp1Down, m_hole1, m_ramp2, m_ramp2up2, m_ramp2Down, m_hole2, m_ramp3, m_ramp3Down, m_ramp3up2, m_ramp1DownMid

diff --git a/games/pinball/source/trigger.h b/games/pinball/source/trigger.h
@@ -20,7 +20,7 @@ class Trigger {
         OptWall* m_wallToChange;
         C2DTexture* m_textureEnabled;
         C2DTexture* m_textureDisabled;
-        int m_hitFrames = 960 / g_displayFrameRate;
+        int m_hitFrames = 1920 / g_displayFrameRate;
         int m_hitFrameCurrent = m_hitFrames;
 
         vector<float> m_leftInletTrigger = {610.6, 8.6, 605.6, 9.9, 604.1, 11.4, 602.6, 12.9, 603.9, 29.2, 605.1, 45.5, 605.7, 50.3, 606.3, 55.1, 608.5, 56.6, 610.8, 58.1, 618.8, 55.5, 626.8, 52.9, 627.8, 51.7, 628.7, 50.5, 629.3, 33.5, 630.0, 16.5, 628.0, 13.2, 626.0, 9.9, 622.5, 8.4, 619.1, 7.0, 617.3, 7.1, 615.5, 7.2, 610.6, 8.6};

diff --git a/games/pinball/source/pinball.h b/games/pinball/source/pinball.h
@@ -32,7 +32,7 @@ class Pinball {
         float m_startX = 2.0f;
         float m_startY = 6.9f;
         // Coordinates for up above after a ball is locked.
-        float m_lockStartX = 6.8;
+        float m_lockStartX = 6.9;
         float m_lockStartY = 6.0;
         bool m_ballOut = false;
         bool m_removed = false;

diff --git a/games/pinball/source/util.h b/games/pinball/source/util.h
@@ -5,7 +5,7 @@
 #include <vector>
 #include "cross2d/c2d.h"
 
-#define DEBUG 1
+#define DEBUG 0
 
 using namespace c2d;
 
